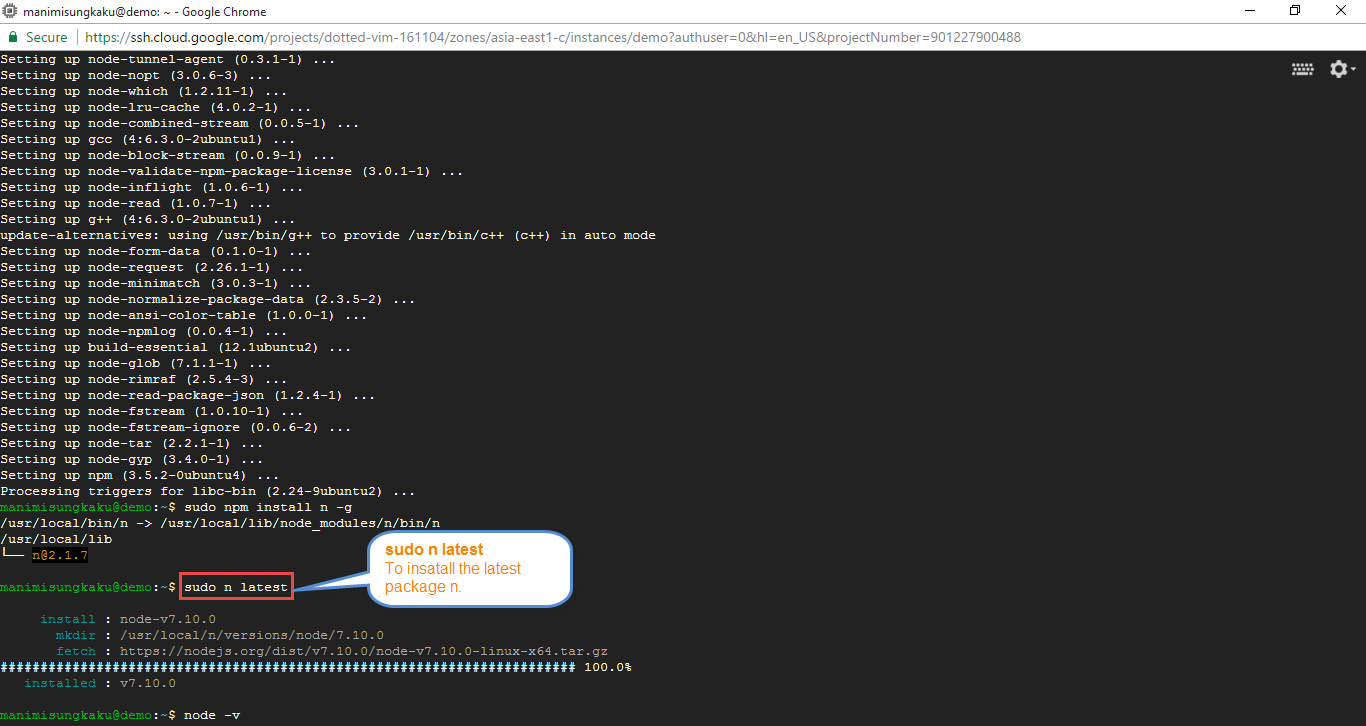
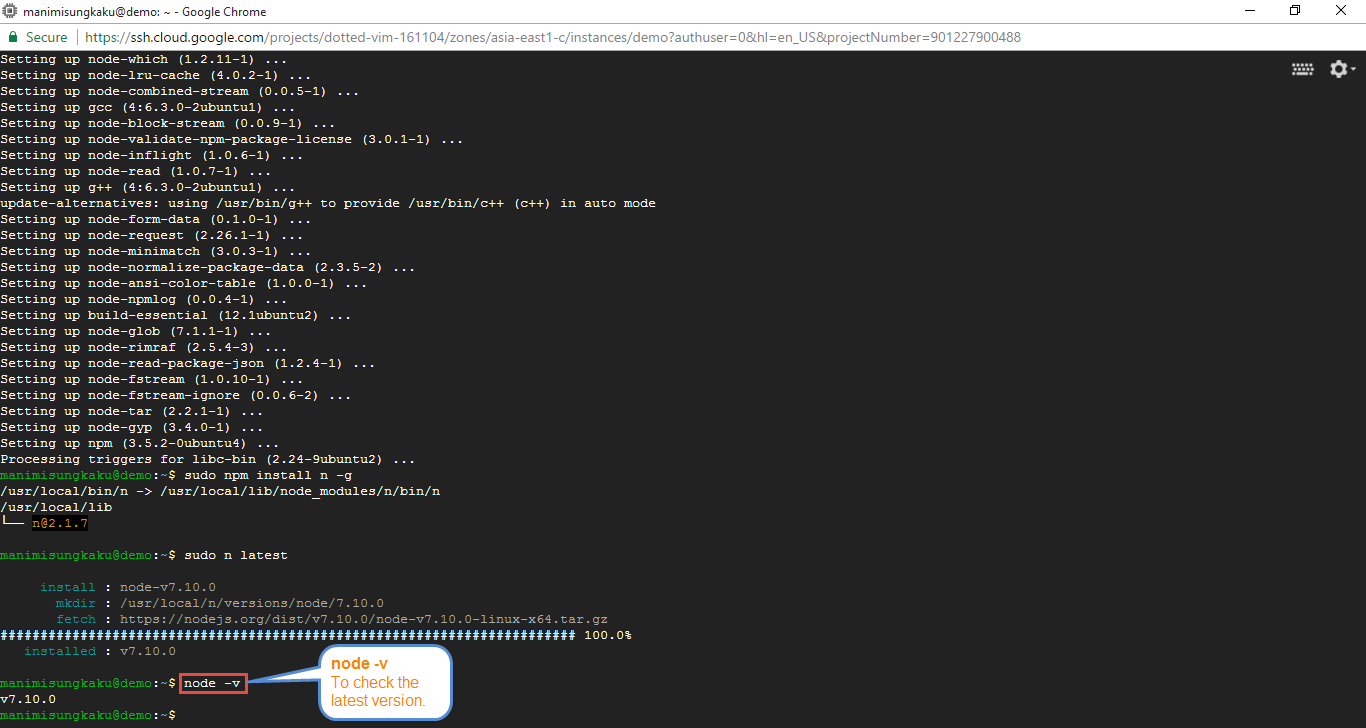
Update

Changed region(s): [[0.0, 0.0606, 0.4919, 1.0]]

diff --git a/README.md b/README.md
@@ -6,12 +6,16 @@ Install node package manager by using advance package tool.
 
 step 2.
 Type y = yes to accept to install advance package tool.
+![]()
 
 step 3.
 Install node package manager n global.
+![]()
 
 step 4.
 Install the latest version of package n.
+![]()
 
 step 5.
 Check the latest n version,Done.!!!
+![]()
